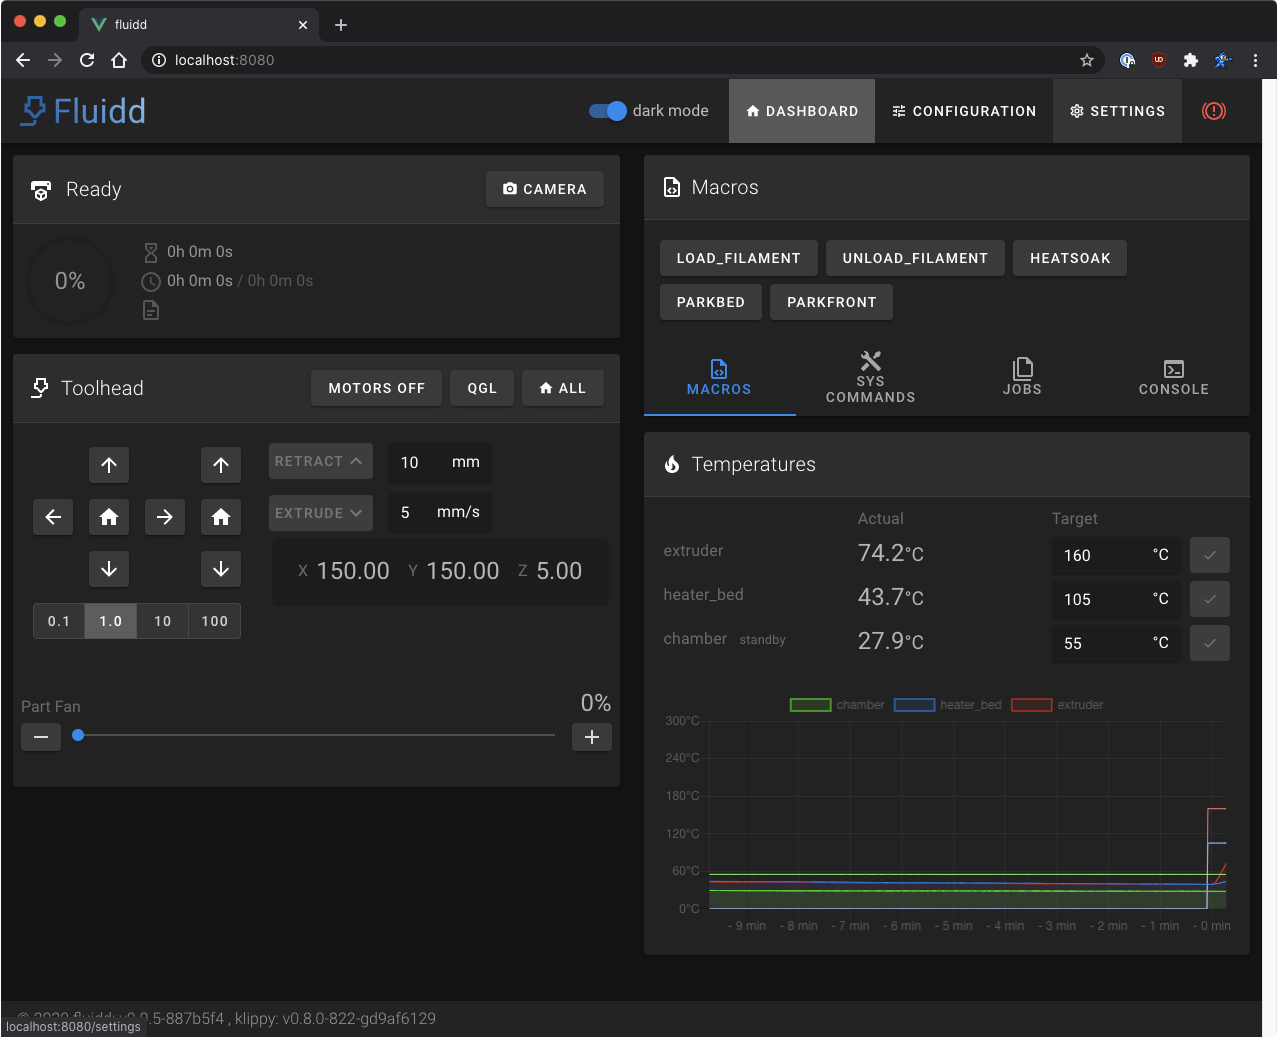
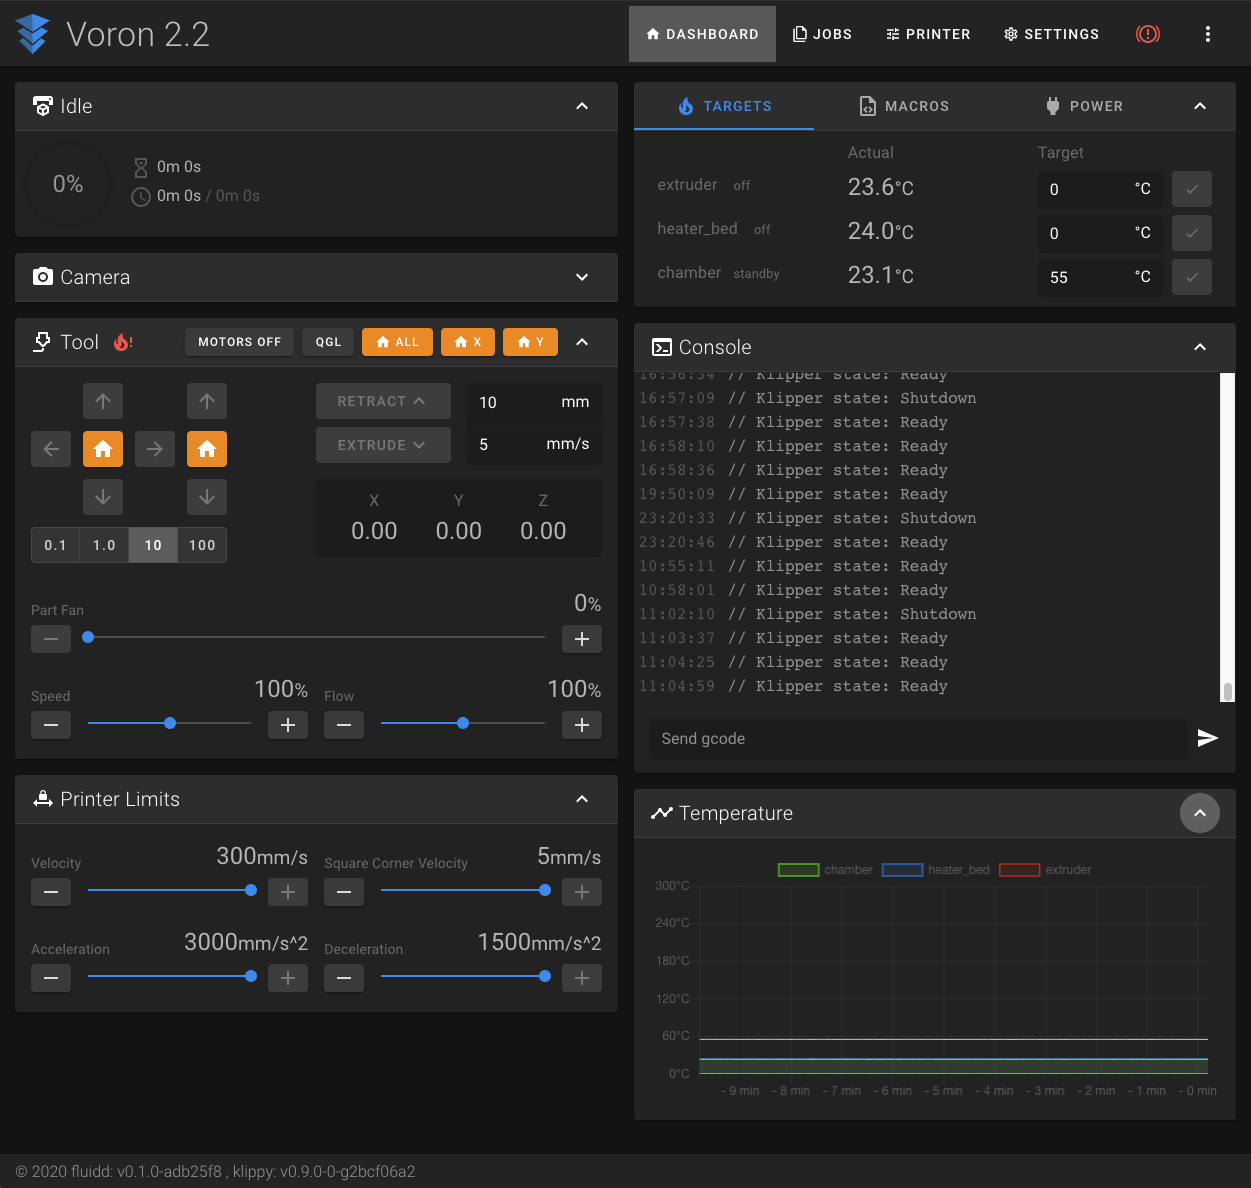
docs: updated app images

diff --git a/README.md b/README.md
@@ -1,7 +1,7 @@
 # Fluidd
 Fluidd is a free and open-source Klipper web interface for managing your 3d printer.
 
-<img align="left" width="225" src="https://raw.githubusercontent.com/cadriel/fluidd/develop/.github/images/PrintingMobile.png">
+<img align="left" width="225" src="https://raw.githubusercontent.com/cadriel/fluidd/develop/.github/images/ReadyMobile.png">
 <img width="550" src="https://raw.githubusercontent.com/cadriel/fluidd/develop/.github/images/Ready.png">
 
 ## Features
